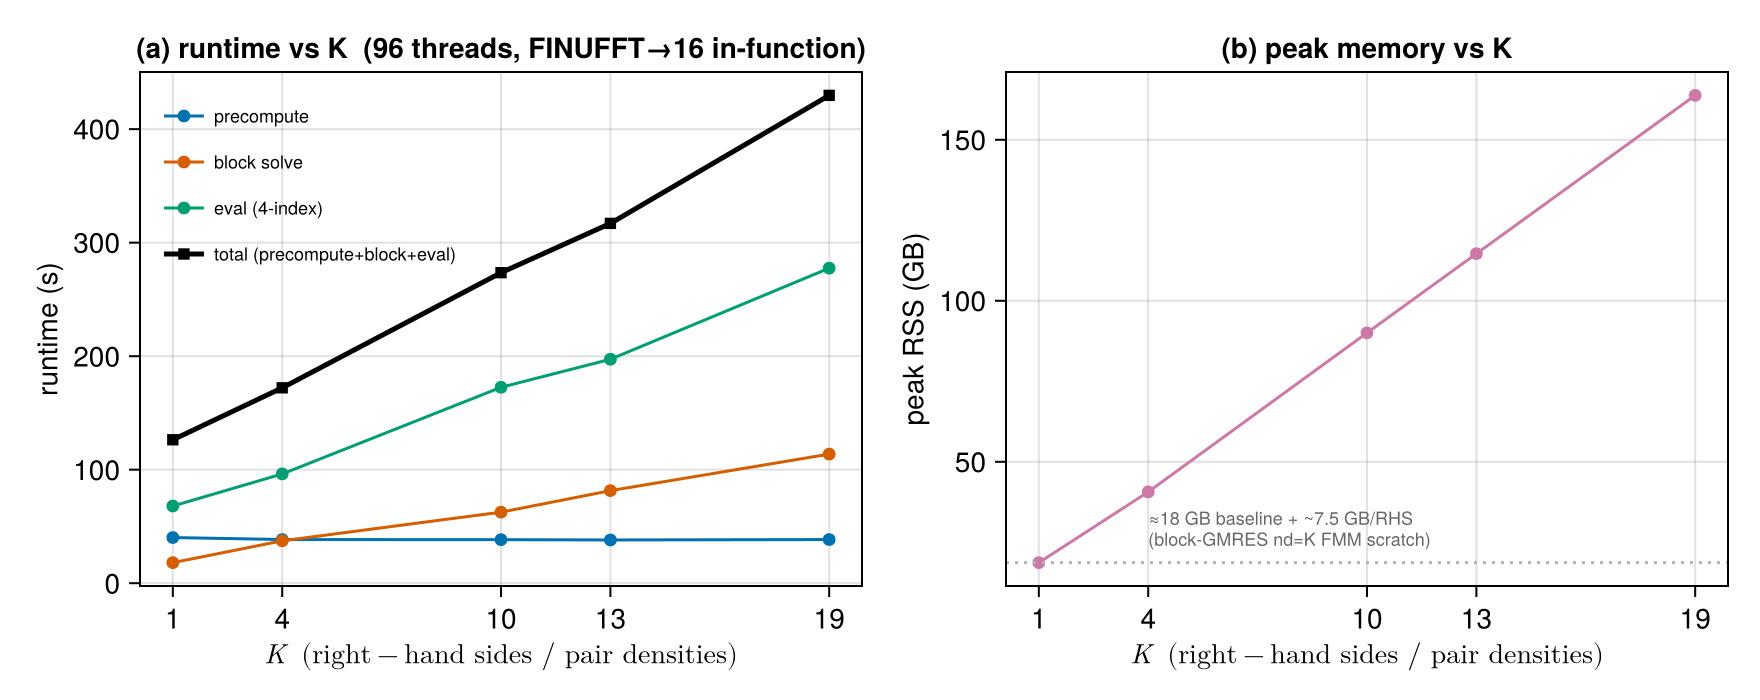
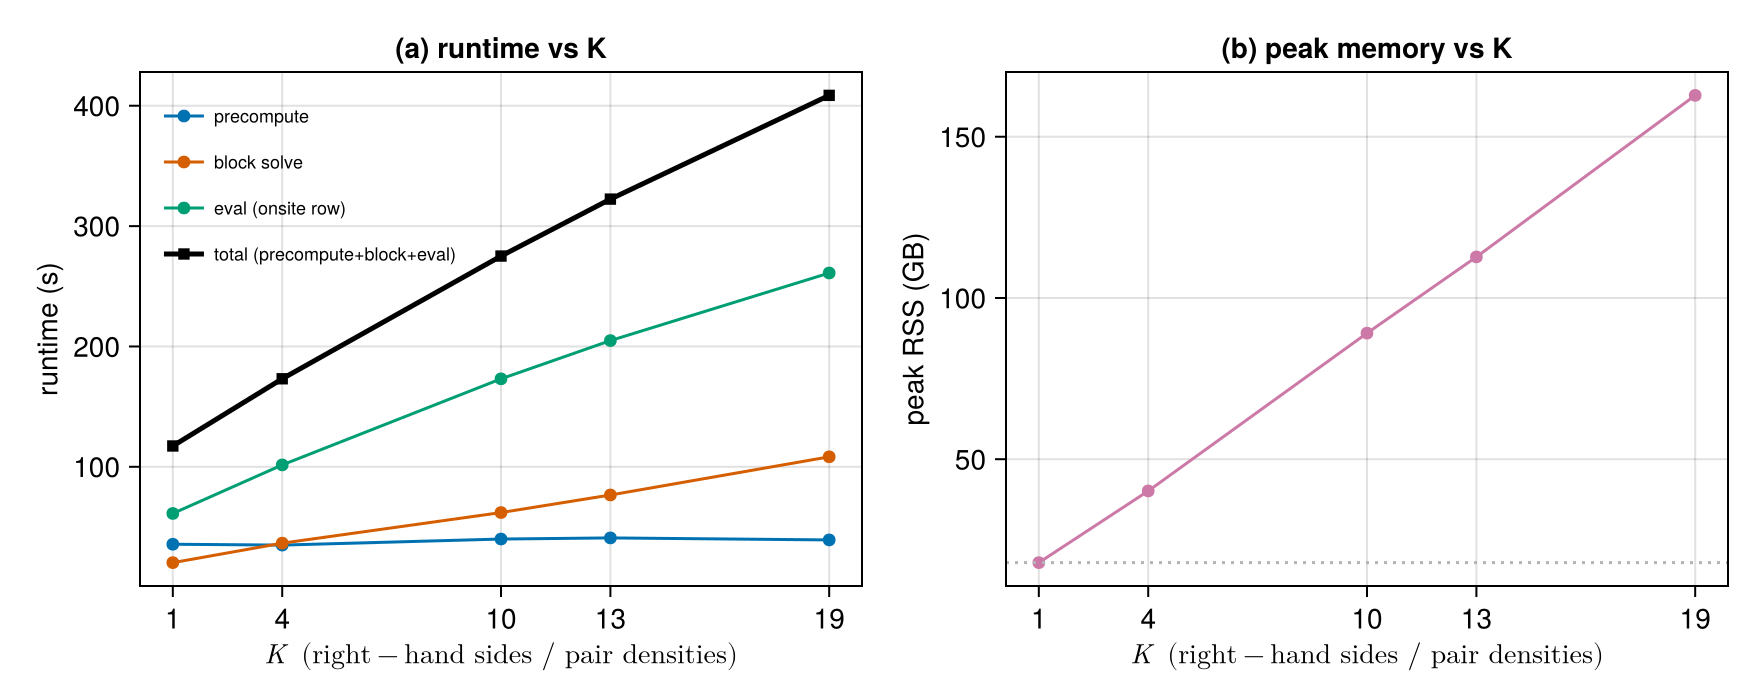
exp65 multi-RHS: parallel-array results (onsite-row eval) + figure + REPORT table
Array job 6521211 (5 cutoffs, one genoa node each, ~10 min wall). Onsite-row eval is linear
in K (~50 s + 11 s/K); precompute flat ~38 s; end-to-end K=19 = 422 s on one node. u_onsite
7.05-7.09 eV, block_resid ~5e-6. Regenerated multi_rhs.csv + fig65_multirhs_scaling.

diff --git a/codes/numerical_results/exp65_orbital_bench/REPORT.md b/codes/numerical_results/exp65_orbital_bench/REPORT.md
@@ -562,5 +562,19 @@ Two follow-on changes to the driver (`scripts/run_multi_rhs.jl`):
   its own `data/raw/multi_rhs_K*_cut*.jls`; after all finish, `scripts/plot_scaling.jl`
   gathers them into `data/multi_rhs.csv` + `figs/fig65_multirhs_scaling.{pdf,png}`.
 
-The four-index-eval `multi_rhs.csv`/figure above are superseded by that run; re-run the array
-+ `plot_scaling.jl` to regenerate the K-linear-eval numbers and figure.
+Results (genoa, one node per cutoff via array job 6521211; `data/multi_rhs.csv`,
+`figs/fig65_multirhs_scaling.{pdf,png}`). These supersede the four-index-eval table above:
+
+| K | interface pts | precompute (s) | block solve (s) | eval onsite-row (s) | total (s) | peak RSS (GB) |
+|--:|--:|--:|--:|--:|--:|--:|
+| 1  | 960768 | 35.7 | 20.4  | 61.2  | 119 | 17.9  |
+| 4  | 960768 | 35.0 | 36.6  | 101.6 | 177 | 40.2  |
+| 10 | 960984 | 40.0 | 62.0  | 173.1 | 283 | 89.1  |
+| 13 | 960552 | 40.9 | 76.6  | 204.9 | 333 | 112.7 |
+| 19 | 960984 | 39.3 | 108.3 | 261.0 | 422 | 162.8 |
+
+- **precompute flat ~38 s** (K-independent); **eval now ≈ linear in K** (~50 s floor + ~11 s/K,
+  vs the super-linear growth when targets were the growing union grid); block solve grows with
+  K. End-to-end at K=19 = **422 s on one node** (block path).
+- Each cutoff ran as its own array task in 4–10 min; the 5 ran in **parallel (~10 min wall)**.
+- u_onsite stable at 7.05–7.09 eV across K; block_resid ~5e-6.
